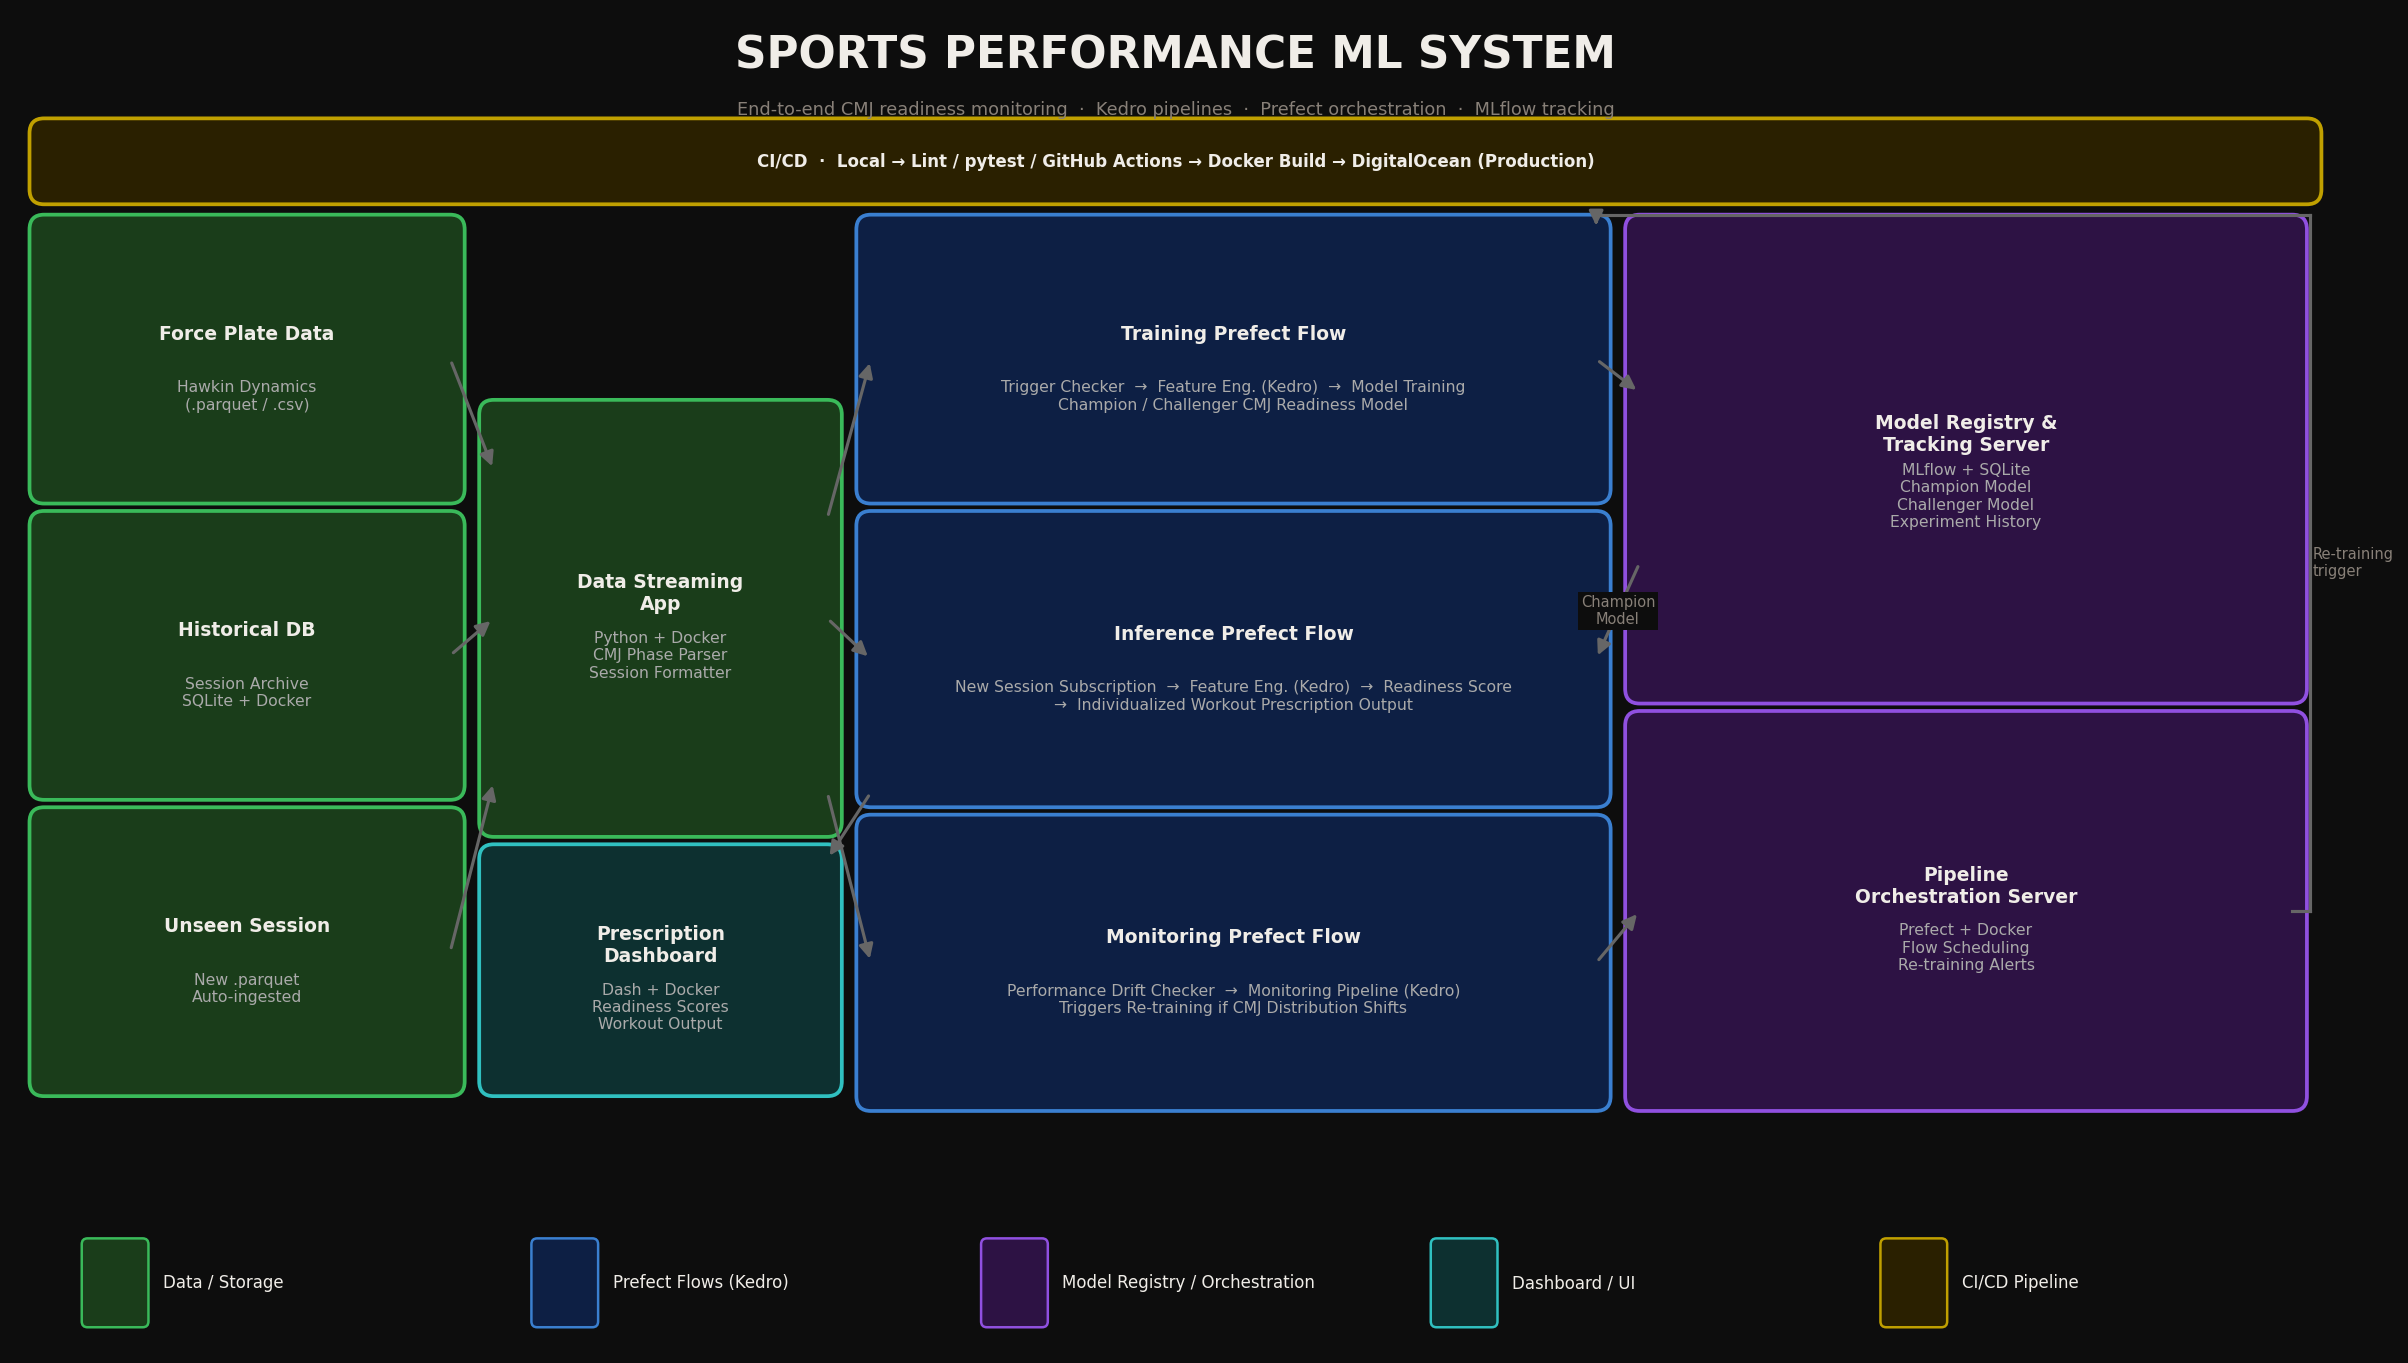
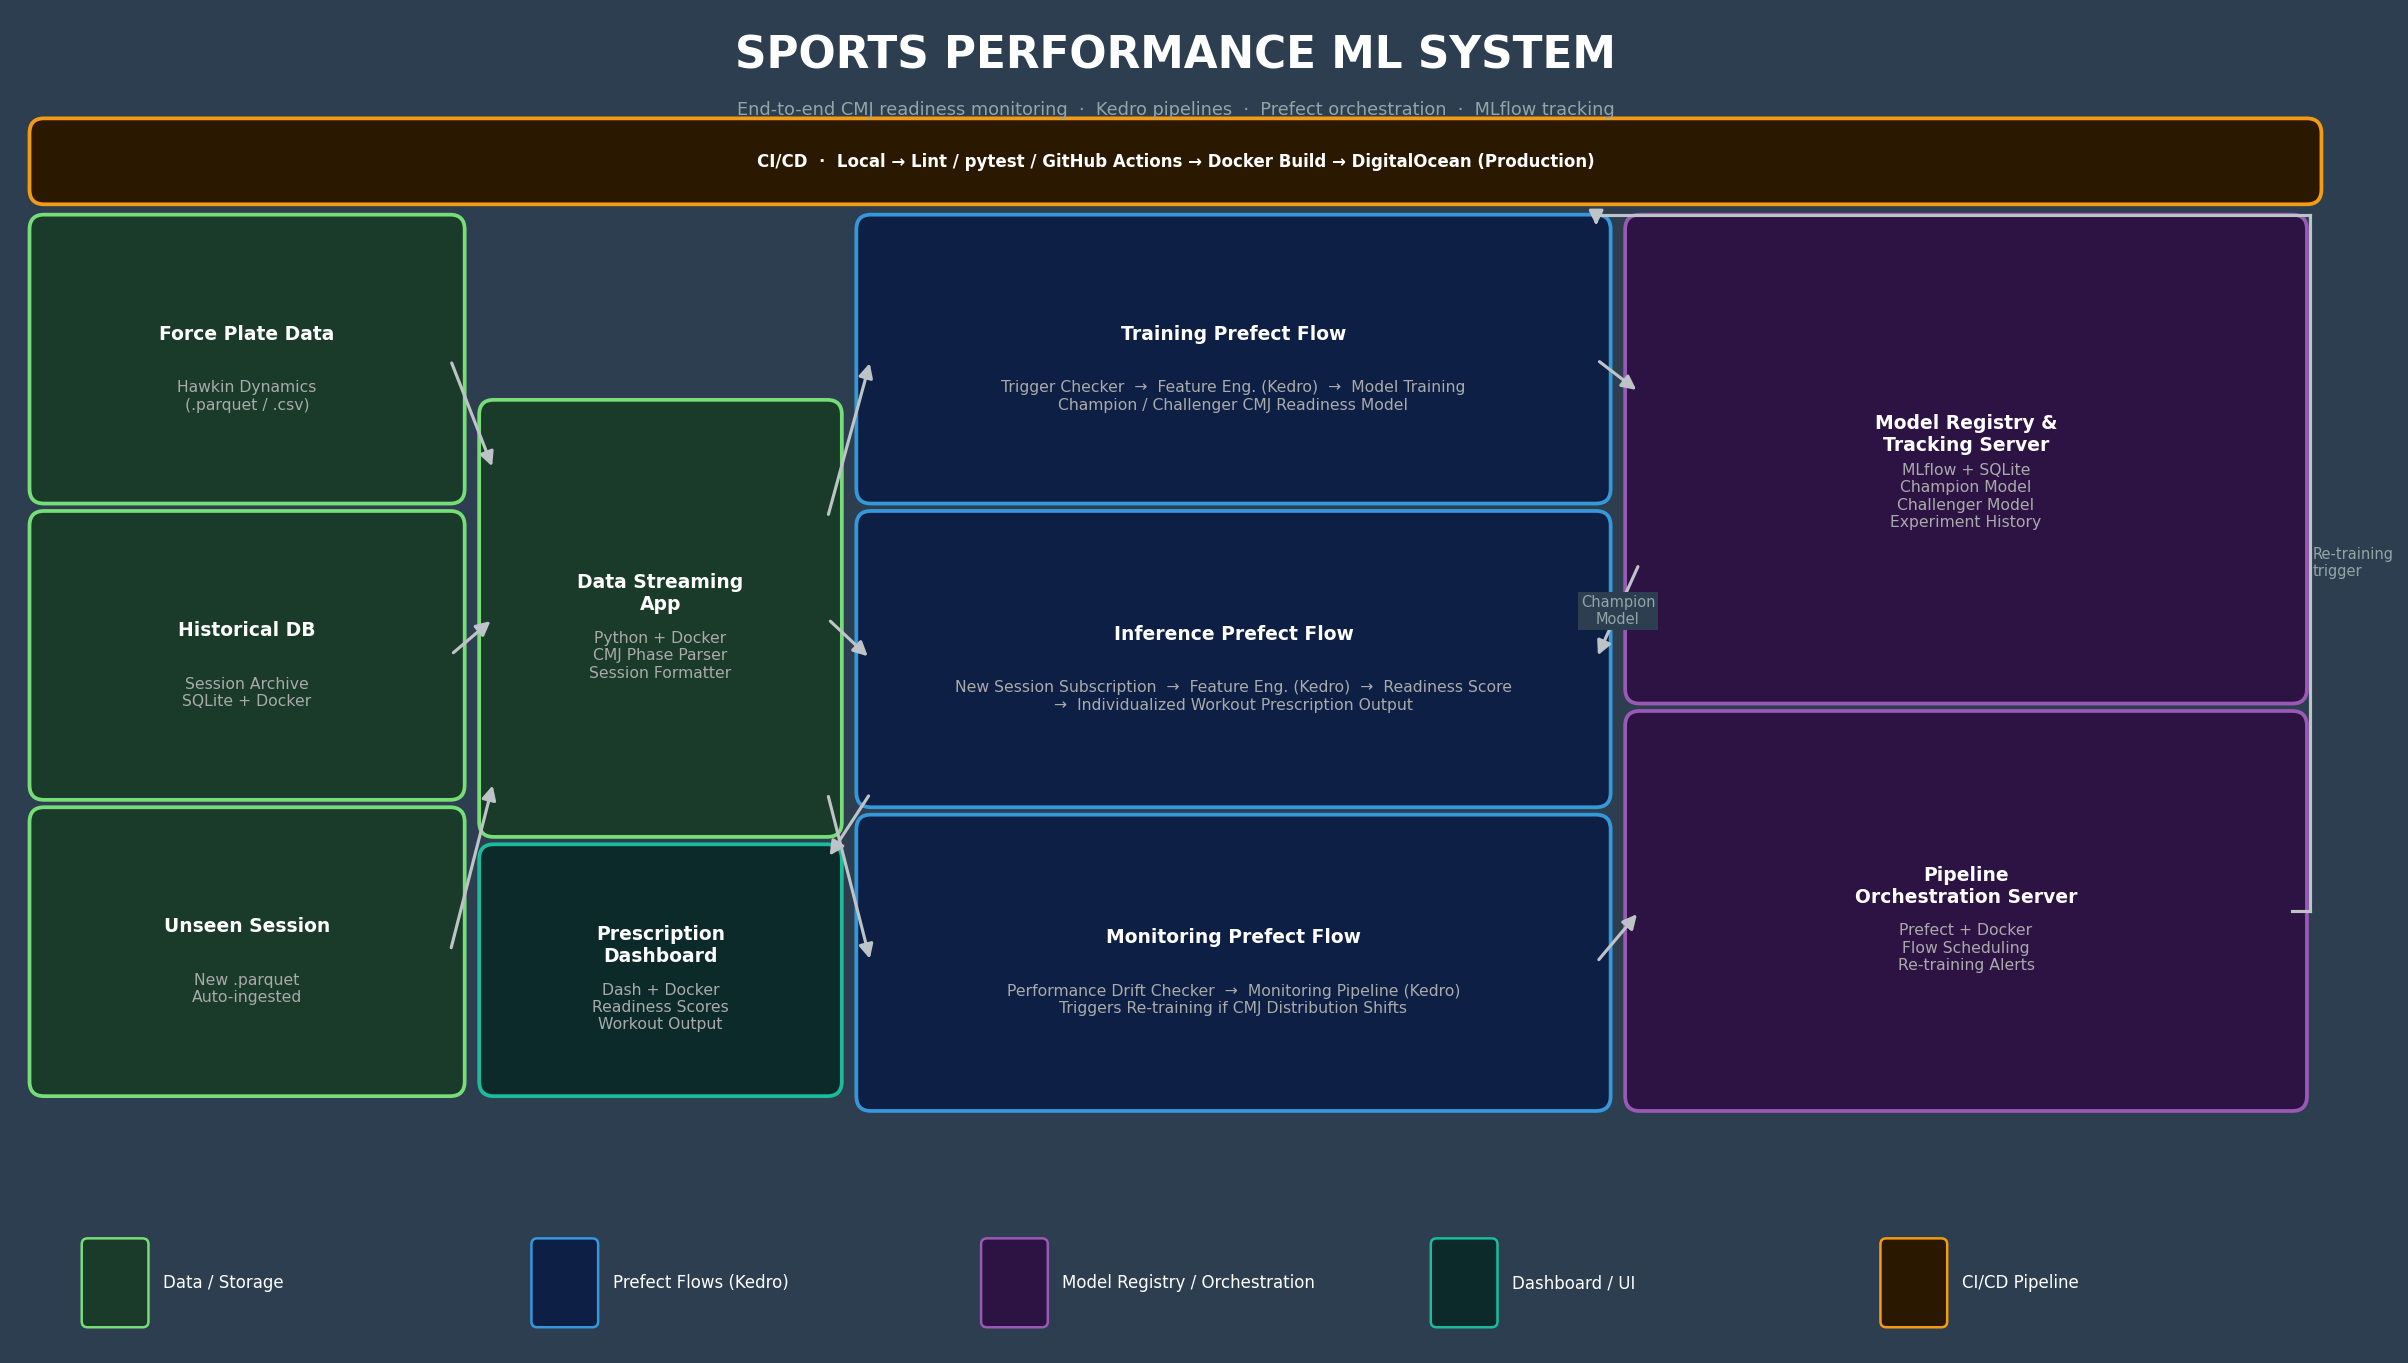
Rebrand dark-mode charts to N1 Performance Lab PH identity
Replace generic dark backgrounds with N1 editorial palette:
- Slate #2C3E50 background (all three charts)
- Eucalyptus #77DD77 as primary accent (ELITE, data blocks, up-trend arrows)
- Cobalt #3498DB (Prefect flows, EXPLOSIVE category, Heavy prescription)
- Amber #F39C12 (CI/CD, BALANCED category, Hypertrophy prescription)
- Violet #9B59B6 (model registry, DEVELOPMENTAL category, Very Heavy)
- Crimson #E74C3C (RED FLAG, Speed prescription)
- Teal #1ABC9C (dashboard UI, Very Light prescription)
- White text and #95A5A6 dim text for slate readability

Applies to: workout_prescription, ml_system_architecture, team_readiness_dashboard

https://claude.ai/code/session_01CADaoBkTuBxZcHGg79Vmsc

diff --git a/generate_plots.py b/generate_plots.py
@@ -572,14 +572,14 @@ WORKOUT_TYPES = [
     "Hypertrophy", "Light", "Very Light", "Base",
 ]
 PRESC_COLORS = [
-    "#C0392B",  # Speed
-    "#E8541D",  # Power
-    "#7B3020",  # Very Heavy
-    "#A84020",  # Heavy
-    "#C49A6C",  # Hypertrophy
-    "#C8B08A",  # Light
-    "#DECCAA",  # Very Light
-    "#6A6A5A",  # Base
+    "#E74C3C",  # Speed      — crimson
+    "#E67E22",  # Power      — orange
+    "#9B59B6",  # Very Heavy — violet
+    "#3498DB",  # Heavy      — cobalt
+    "#F39C12",  # Hypertrophy — amber
+    "#77DD77",  # Light      — eucalyptus
+    "#1ABC9C",  # Very Light — teal
+    "#7F8C8D",  # Base       — slate-grey
 ]
 ATHLETES_PRESC = [
     {"name": "Athlete 1", "rsi": 0.89, "jump_m": 0.52, "asym": 3,  "brfd": 4820,
@@ -594,9 +594,9 @@ ATHLETES_PRESC = [
      "pct": [10, 22, 20, 18, 16, 9, 3, 2]},
 ]
 
-_P_BG  = "#1C1B1A"
-_P_TXT = "#F0EDE8"
-_P_DIM = "#888078"
+_P_BG  = "#2C3E50"
+_P_TXT = "#FFFFFF"
+_P_DIM = "#95A5A6"
 _prng  = np.random.default_rng(7)
 
 with plt.rc_context({
@@ -678,7 +678,7 @@ with plt.rc_context({
             if _p >= 8:
                 _ax_b.text(_xp + _p / 2, 0.50, f"{_p:.0f}%",
                            ha="center", va="center", fontsize=9,
-                           color=_P_TXT if _p >= 15 else "#1C1B1A",
+                           color=_P_TXT if _p >= 15 else "#2C3E50",
                            fontweight="bold", zorder=3)
             _xp += _p
 
@@ -700,15 +700,15 @@ with plt.rc_context({
 # End-to-end CMJ pipeline: plates → prescription
 # ══════════════════════════════════════════════
 
-_A_BG   = "#0D0D0D"
-_A_TXT  = "#F0EDE8"
-_A_DIM  = "#888078"
-_A_ARR  = "#666666"
-_A_DATA = ("#1A3D1A", "#3ABA5A")
-_A_FLOW = ("#0D1F44", "#3A7FD0")
-_A_REG  = ("#2D1244", "#9050E0")
-_A_UI   = ("#0D3030", "#30C0C0")
-_A_CI   = ("#2A2000", "#C0A000")
+_A_BG   = "#2C3E50"
+_A_TXT  = "#FFFFFF"
+_A_DIM  = "#95A5A6"
+_A_ARR  = "#BDC3C7"
+_A_DATA = ("#1A3A2A", "#77DD77")   # eucalyptus — data / storage
+_A_FLOW = ("#0D1F44", "#3498DB")   # cobalt     — Prefect flows
+_A_REG  = ("#2D1244", "#9B59B6")   # violet     — model registry
+_A_UI   = ("#0D2A2A", "#1ABC9C")   # teal       — dashboard / UI
+_A_CI   = ("#2A1800", "#F39C12")   # amber      — CI/CD
 
 
 def _abx(ax, x, y, w, h, title, sub="", fc="#0D1F44", ec="#3A7FD0", tfs=9):
@@ -879,16 +879,16 @@ _NU_MEN = [
 ]
 
 _CAT = {
-    "ELITE":       {"col": "#2ECC71", "fc": "#0D2D1A", "ec": "#2ECC71",
-                    "rx": "Speed · Power · Very Heavy"},
-    "EXPLOSIVE":   {"col": "#3A9FE0", "fc": "#0D1F35", "ec": "#3A9FE0",
-                    "rx": "Power · Heavy · Short GCT"},
-    "BALANCED":    {"col": "#F0A030", "fc": "#2D1E08", "ec": "#F0A030",
-                    "rx": "Heavy · Hypertrophy · Force"},
-    "DEVELOPMENTAL":{"col":"#E0C040", "fc": "#2D2600", "ec": "#E0C040",
-                    "rx": "Hypertrophy · Strength Build"},
-    "RED FLAG":    {"col": "#E74C3C", "fc": "#2D0A08", "ec": "#E74C3C",
-                    "rx": "Light · Recovery · RTP Protocol"},
+    "ELITE":        {"col": "#77DD77", "fc": "#0D2D1A", "ec": "#77DD77",
+                     "rx": "Speed · Power · Very Heavy"},
+    "EXPLOSIVE":    {"col": "#3498DB", "fc": "#0D1F35", "ec": "#3498DB",
+                     "rx": "Power · Heavy · Short GCT"},
+    "BALANCED":     {"col": "#F39C12", "fc": "#2D1E08", "ec": "#F39C12",
+                     "rx": "Heavy · Hypertrophy · Force"},
+    "DEVELOPMENTAL":{"col": "#9B59B6", "fc": "#2D1244", "ec": "#9B59B6",
+                     "rx": "Hypertrophy · Strength Build"},
+    "RED FLAG":     {"col": "#E74C3C", "fc": "#2D0A08", "ec": "#E74C3C",
+                     "rx": "Light · Recovery · RTP Protocol"},
 }
 
 def _get_cat(rsi, asym):
@@ -901,13 +901,13 @@ def _get_cat(rsi, asym):
 
 def _trend(v_now, v_prev, higher_better=True):
     pct = (v_now - v_prev) / abs(v_prev) * 100
-    if abs(pct) < 1.5: return "→", "#888888", f"{v_now:.3f}"
+    if abs(pct) < 1.5: return "→", "#95A5A6", f"{v_now:.3f}"
     improved = pct > 0 if higher_better else pct < 0
-    return ("↑", "#2ECC71", f"{v_now:.3f}") if improved else ("↓", "#E74C3C", f"{v_now:.3f}")
+    return ("↑", "#77DD77", f"{v_now:.3f}") if improved else ("↓", "#E74C3C", f"{v_now:.3f}")
 
-_DB = "#181716"
-_TW = "#F0EDE8"
-_DM = "#808070"
+_DB = "#2C3E50"
+_TW = "#FFFFFF"
+_DM = "#95A5A6"
 
 with plt.rc_context({"figure.facecolor": _DB, "axes.facecolor": _DB,
                      "font.family": "DejaVu Sans",
@@ -1002,7 +1002,7 @@ with plt.rc_context({"figure.facecolor": _DB, "axes.facecolor": _DB,
                    fontsize=7.5, color=_arc, va="center")
 
         # Asymmetry
-        _ac = "#E74C3C" if _a17["asym"] >= 10 else "#F0A030" if _a17["asym"] >= 7 else _TW
+        _ac = "#E74C3C" if _a17["asym"] >= 10 else "#F39C12" if _a17["asym"] >= 7 else _TW
         _flag = "  ⚑" if _a17["asym"] >= 10 else ""
         _dfig.text(0.680, _y_c + 0.018, f"{_a17['asym']:.1f}%{_flag}",
                    fontsize=12, fontweight="bold", color=_ac, va="center")
